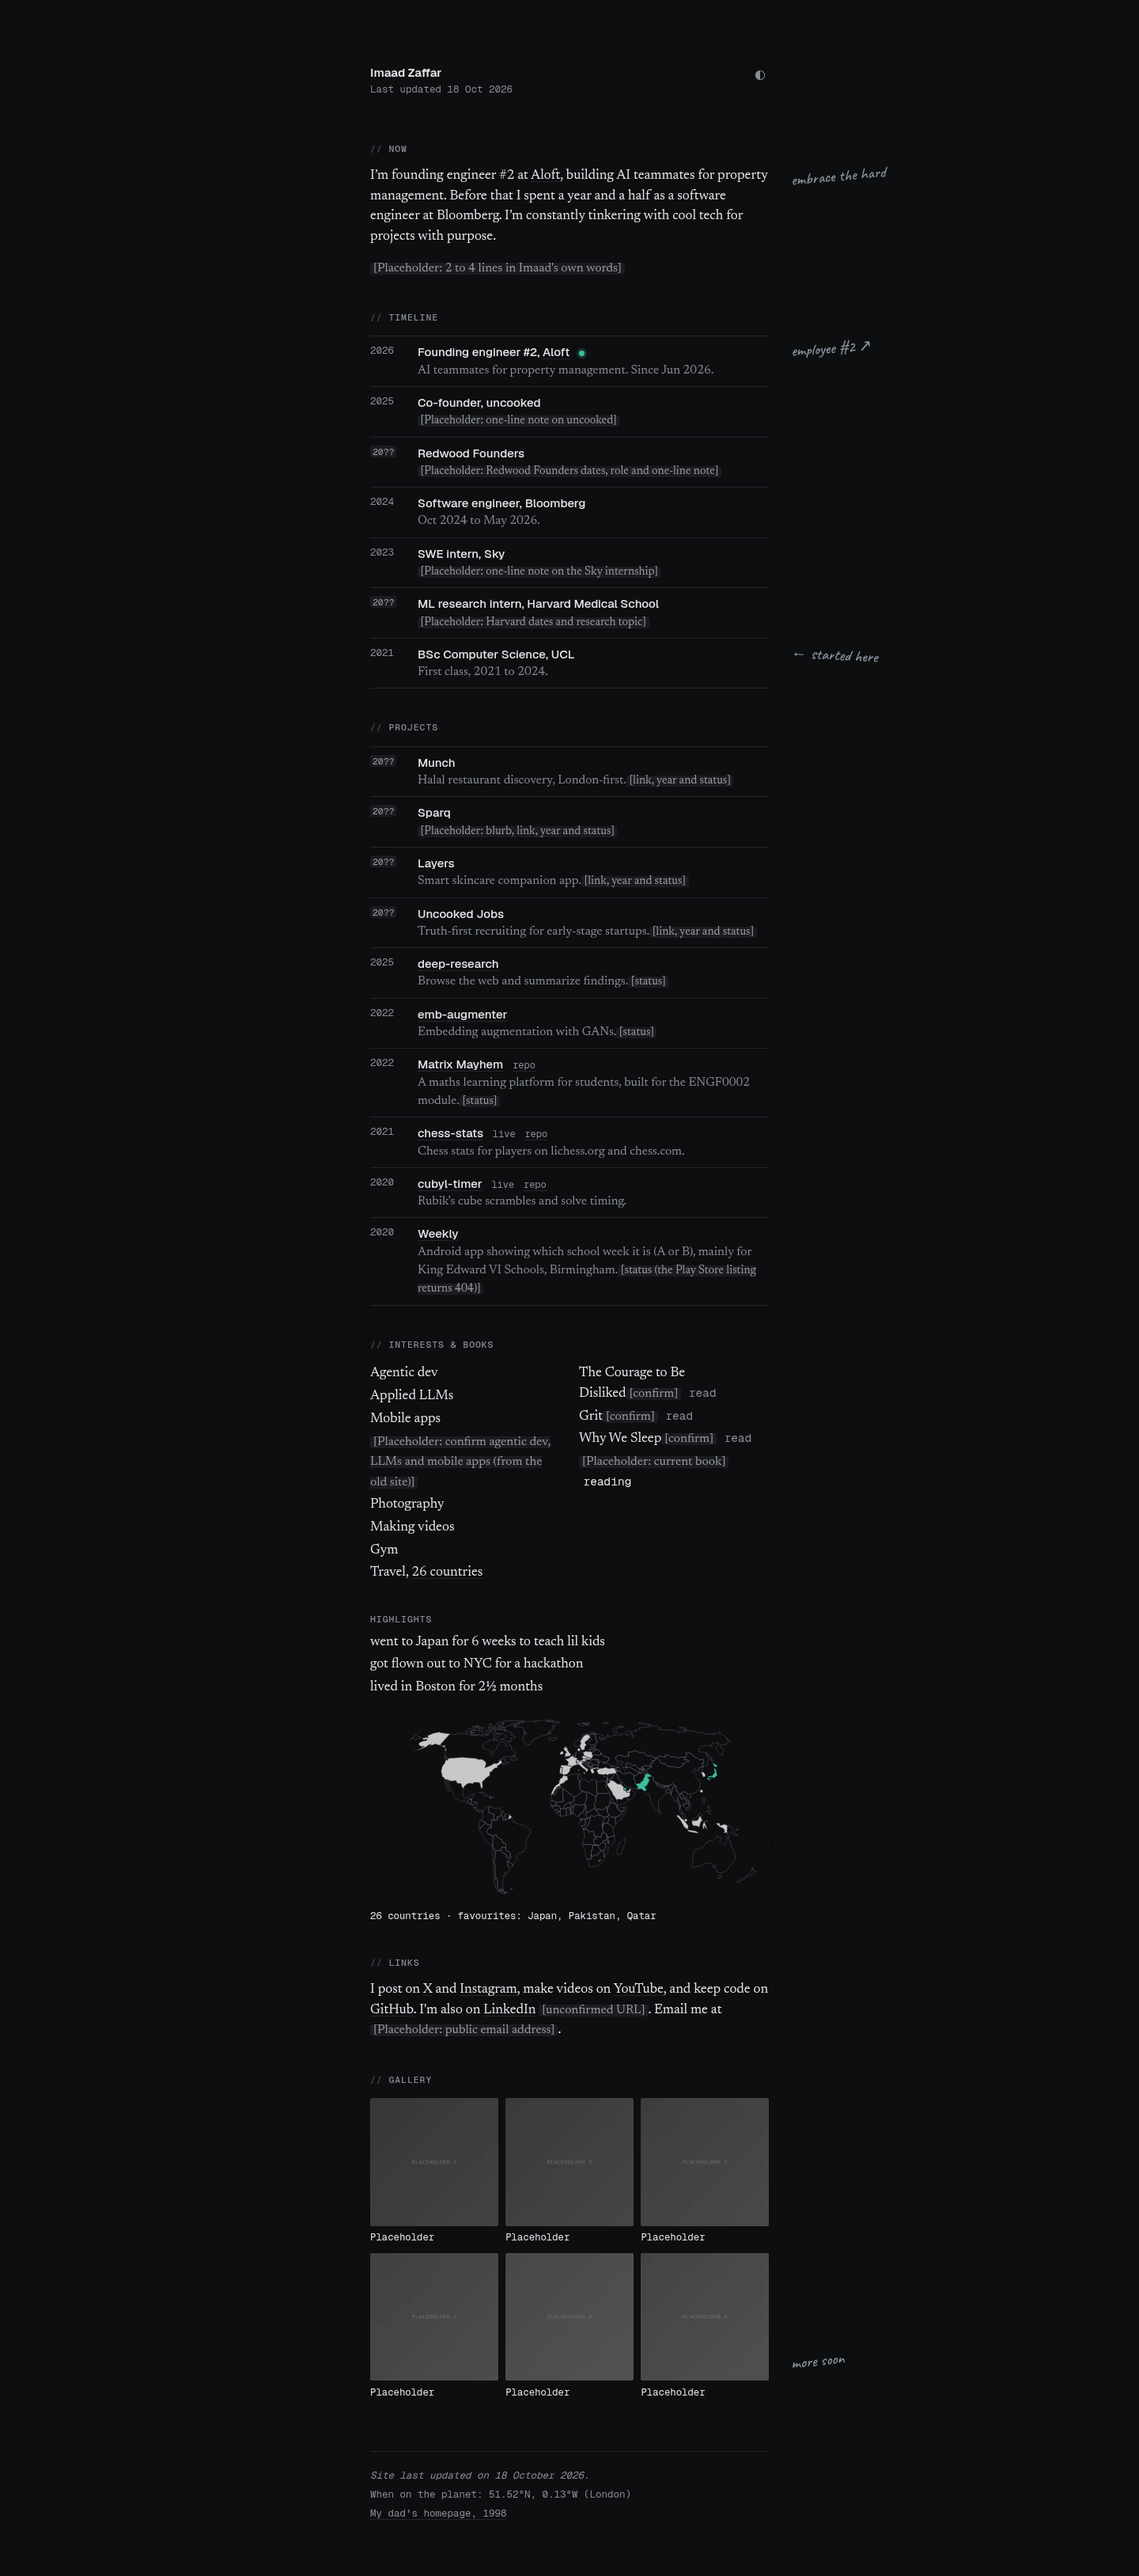
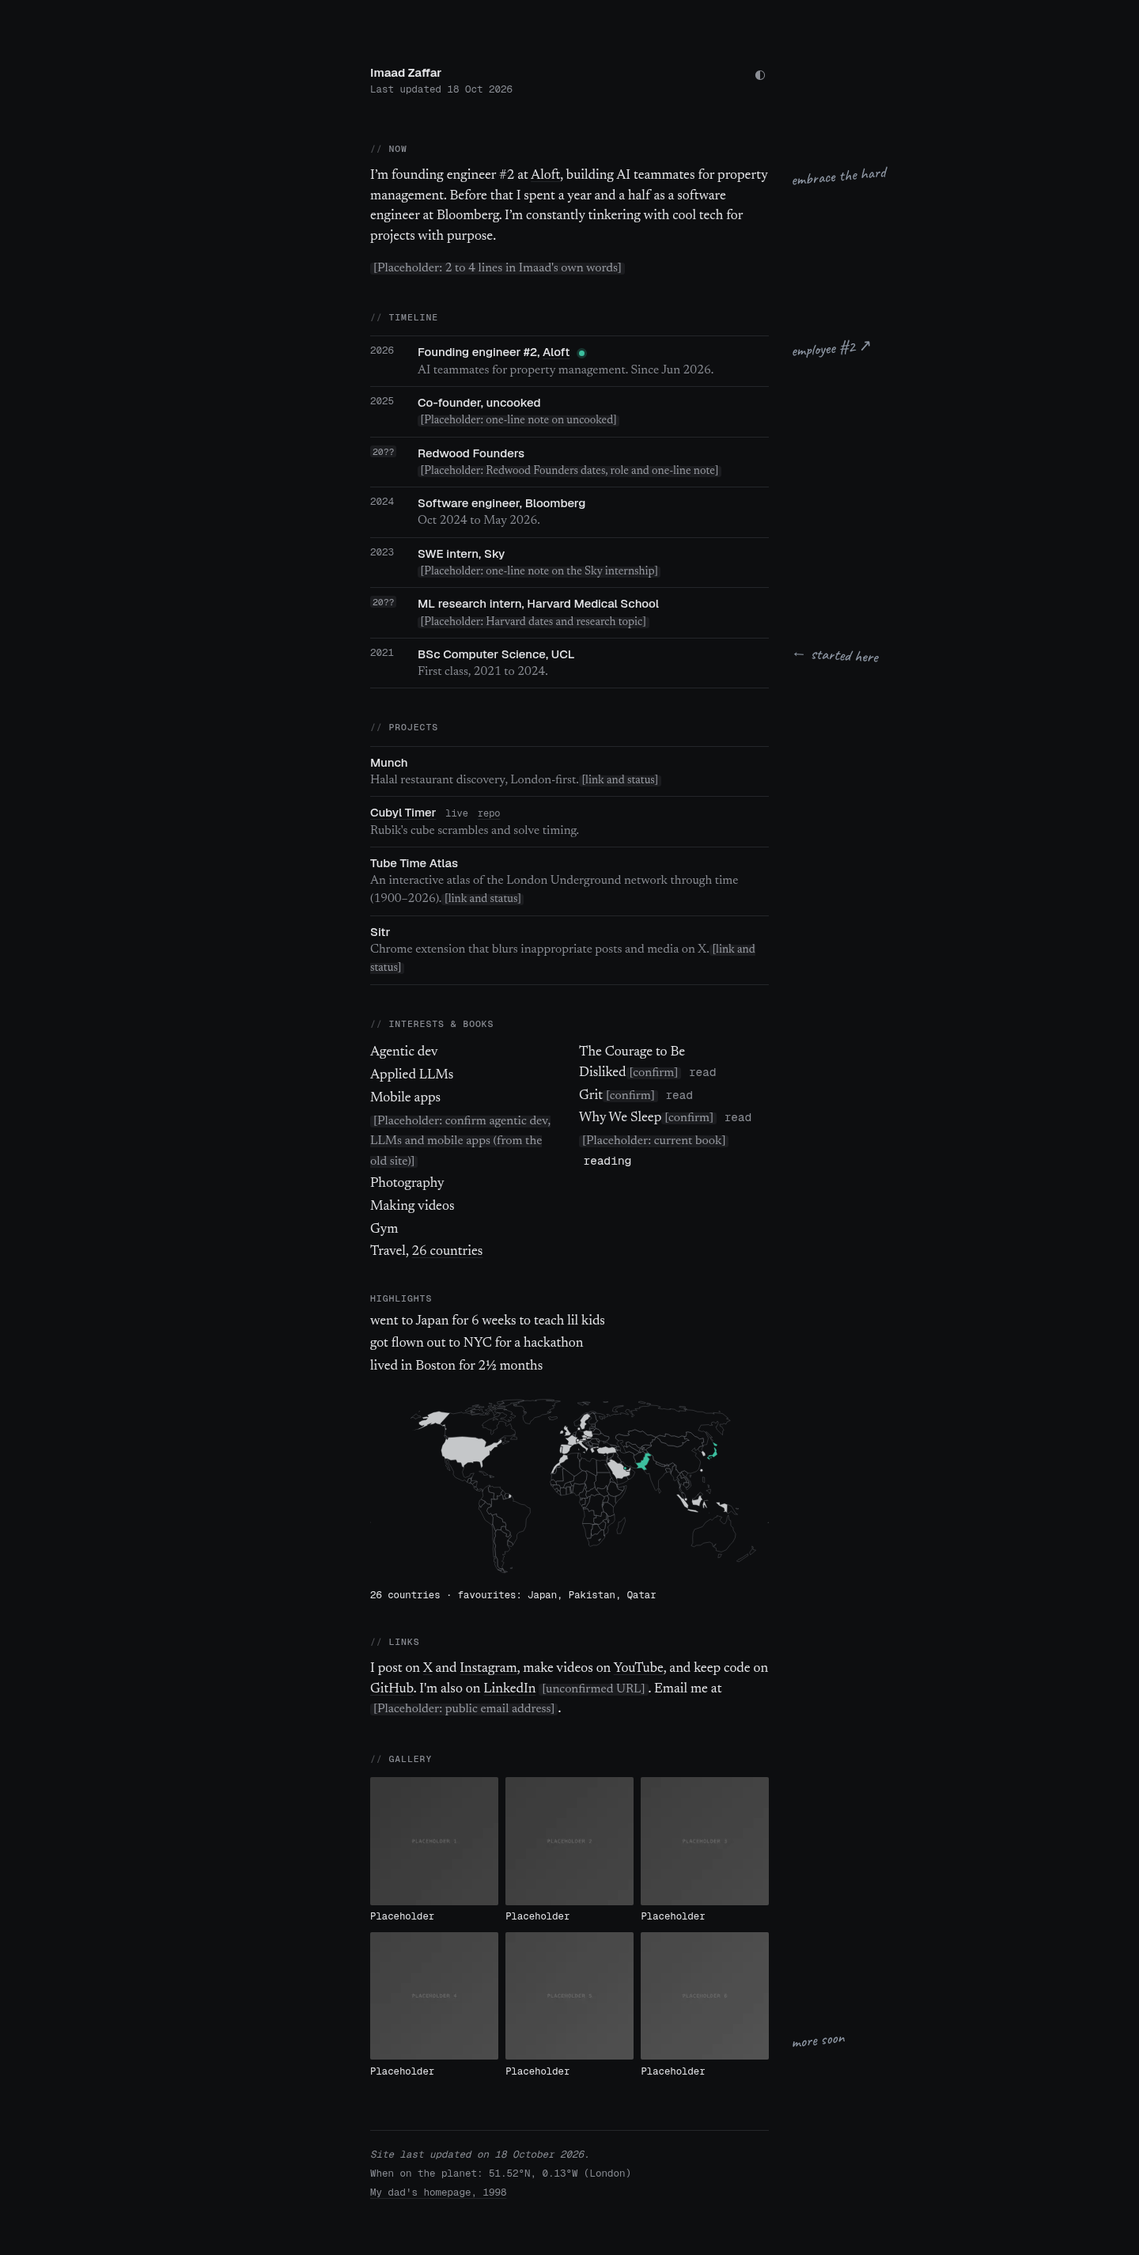
feat(site): trim Projects to four and drop the year field
Keeps Munch and Cubyl Timer, and adds Tube Time Atlas and Sitr without repo links because both repos are private. The year field is gone from the schema, page and data.

diff --git a/src/styles/global.css b/src/styles/global.css
@@ -71,6 +71,7 @@ mark.ph { background: var(--mark); color: var(--mark-ink); padding: 0 0.25em; bo
 
 .ledger { list-style: none; margin: 0; padding: 0; }
 .ledger li { position: relative; display: grid; grid-template-columns: 3rem 1fr; gap: 0.75rem; padding: 0.5rem 0; border-top: 1px solid var(--line); }
+.ledger.plain li { grid-template-columns: 1fr; }
 .ledger li:last-child { border-bottom: 1px solid var(--line); }
 .yr { color: var(--muted); font-variant-numeric: tabular-nums; }
 .role b { font-weight: 500; }

diff --git a/src/content.config.ts b/src/content.config.ts
@@ -44,7 +44,6 @@ const projects = defineCollection({
     blurb: z.string().nullable(),
     url: z.string().url().optional(),
     repo: z.string().url().optional(),
-    year: z.number().int().nullable(),
     status: z.enum(['live', 'archived', 'wip']).nullable(),
     todo,
   }),

diff --git a/README.md b/README.md
@@ -22,7 +22,7 @@ All copy lives in `src/content/`. The schemas in `src/content.config.ts` validat
 | --- | --- |
 | `now.md` | The Now paragraph. `updated` drives "Last updated" and the footer date. `aside` is the handwritten note beside it. |
 | `timeline.json` | One row per role: `year`, `role`, `org`, optional `url`, `note`, `current` (adds the dot), and `aside` (the handwritten margin note). |
-| `projects.json` | One row per project: `name`, `blurb`, optional `url` and `repo`, `year`, and `status` (`live`, `archived`, `wip` or `null`). |
+| `projects.json` | One row per project: `name`, `blurb`, optional `url` and `repo`, and `status` (`live`, `archived`, `wip` or `null`). |
 | `interests.json` | Entries with `kind` set to `interest`, `highlight` (`text`) or `book` (`status`: `reading` or `read`). |
 | `travel.json` | Visited countries: `{ "id": "JP", "favourite": true }`, with optional `year` and `note`. `id` must be an ISO 3166-1 alpha-2 code. The world map, its favourites (in teal) and the Travel count come from this file. Countries too small to see get a dot. |
 | `links.json` | The links used in the Links sentence. `id` is one of `x`, `instagram`, `youtube`, `github`, `linkedin`, `email`. For email, `url` is the bare address. |
